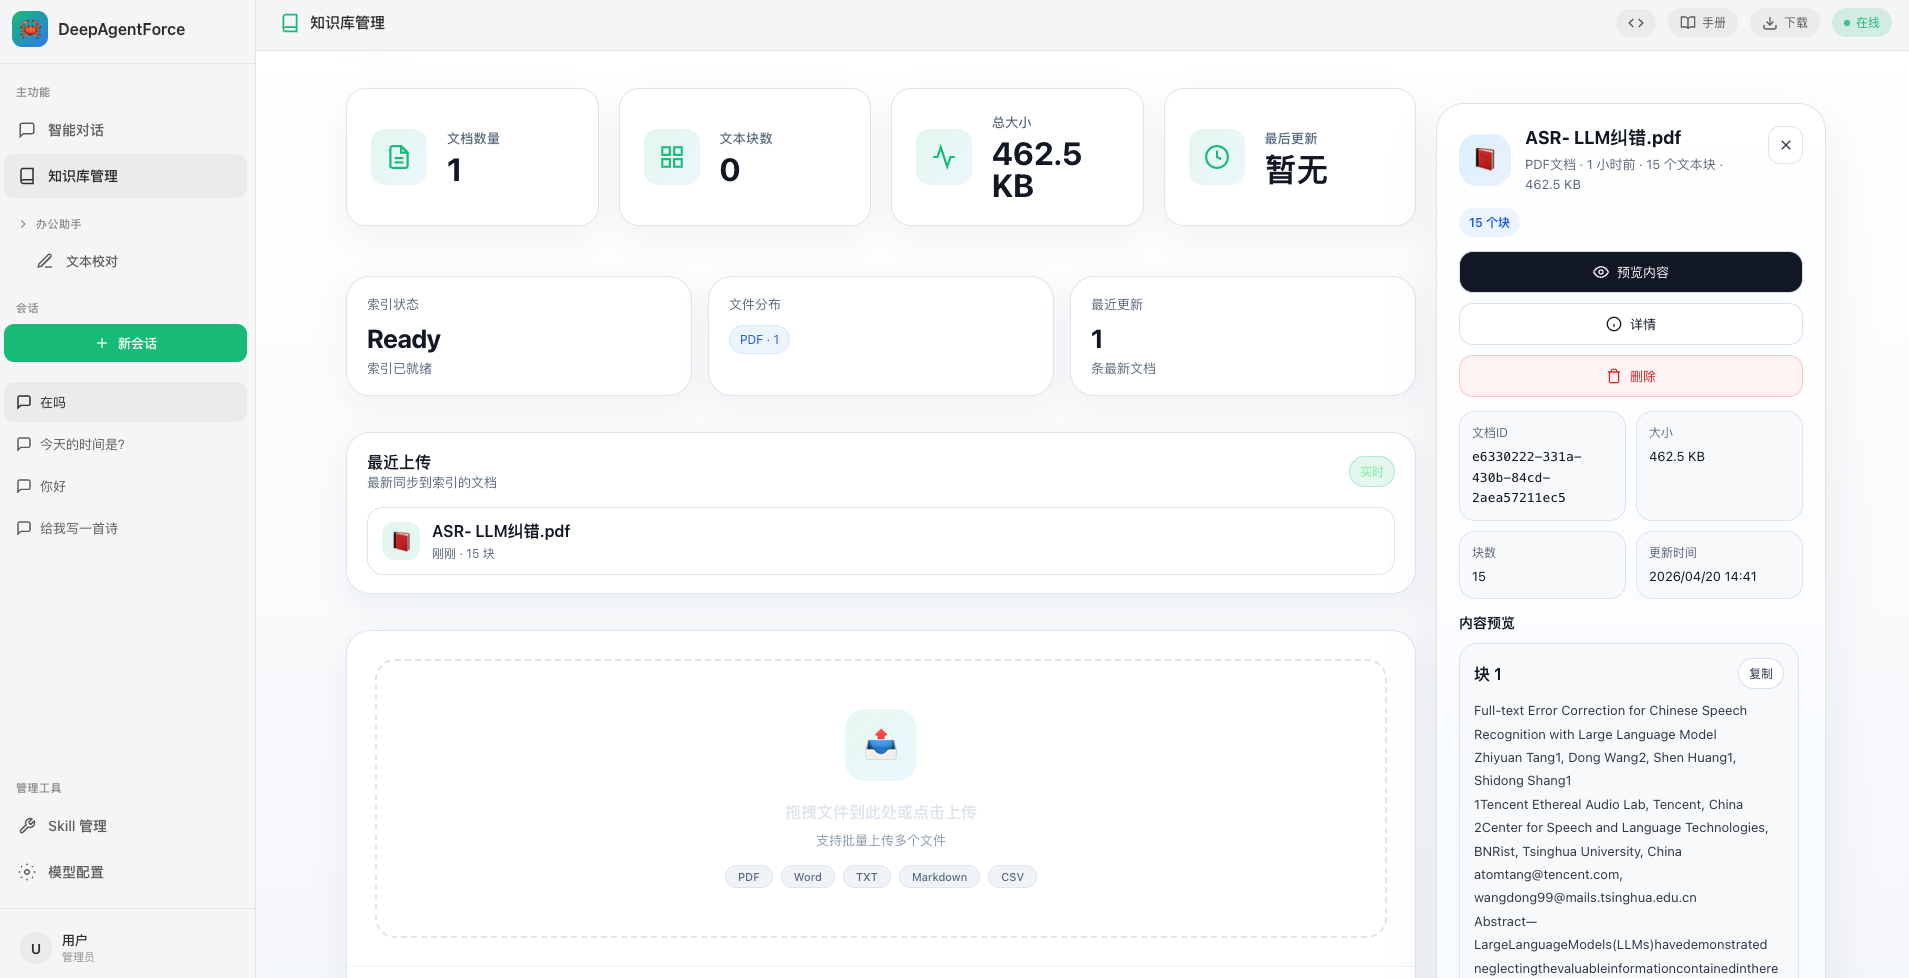
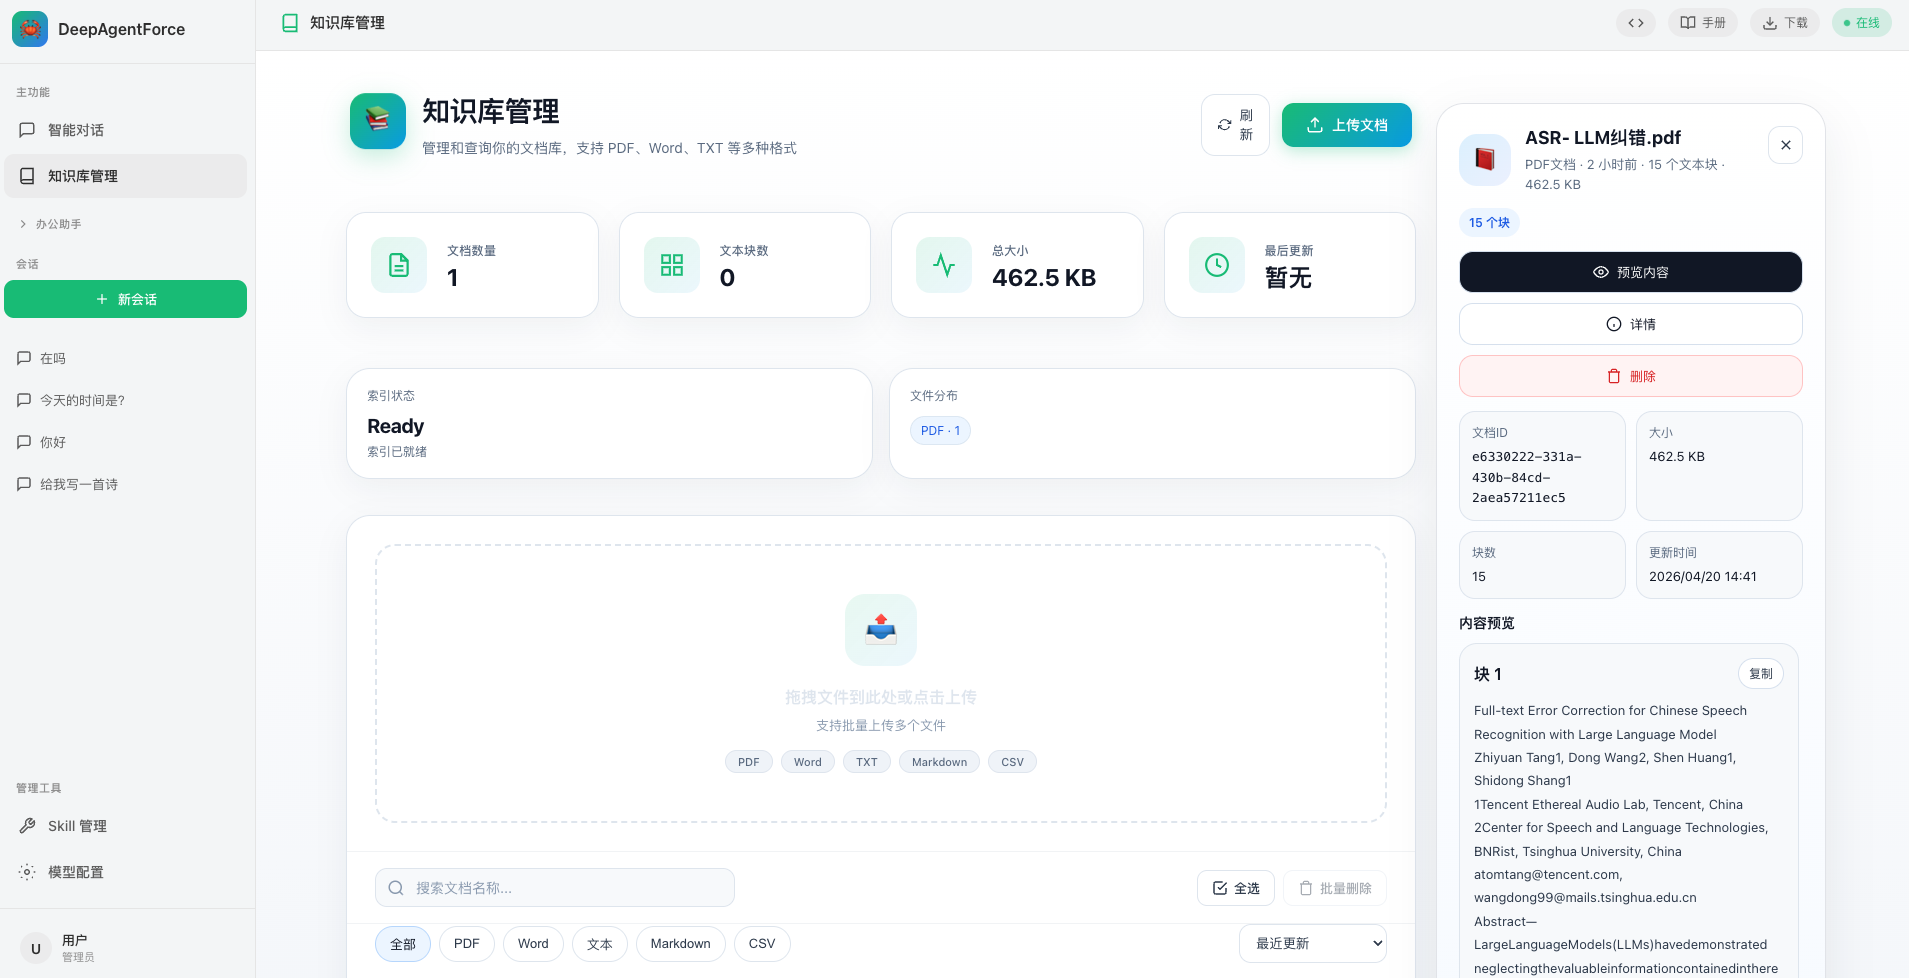
优化 知识库的前端显示

diff --git a/static/index.html b/static/index.html
@@ -2136,7 +2136,7 @@
         }
 
         .stat-label {
-            font-size: 13px;
+            font-size: 12px;
             color: #64748b;
             margin-bottom: 6px;
             font-weight: 500;
@@ -2144,7 +2144,7 @@
         }
 
         .stat-value {
-            font-size: 32px;
+            font-size: 24px;
             font-weight: 700;
             color: #1a1a2e;
             line-height: 1;
@@ -5334,13 +5334,12 @@
 
         .kb-insight-grid {
             display: grid;
-            grid-template-columns: repeat(3, minmax(0, 1fr));
+            grid-template-columns: repeat(2, minmax(0, 1fr));
             gap: 16px;
             margin-bottom: 18px;
         }
 
-        .kb-insight-card,
-        .kb-recent-panel {
+        .kb-insight-card {
             background: rgba(15, 23, 42, 0.72);
             border: 1px solid rgba(148, 163, 184, 0.14);
             border-radius: 24px;
@@ -5355,12 +5354,12 @@
         .kb-insight-label,
         .kb-panel-subtitle {
             color: #94a3b8;
-            font-size: 13px;
+            font-size: 12px;
         }
 
         .kb-insight-value {
             margin-top: 10px;
-            font-size: 26px;
+            font-size: 20px;
             font-weight: 700;
             color: #f8fafc;
             letter-spacing: -0.02em;
@@ -5369,7 +5368,7 @@
         .kb-insight-text {
             margin-top: 6px;
             color: #cbd5e1;
-            font-size: 13px;
+            font-size: 12px;
         }
 
         .kb-type-breakdown {
@@ -5392,86 +5391,6 @@
 
         .kb-type-pill.muted {
             color: #94a3b8;
-        }
-
-        .kb-recent-panel {
-            padding: 18px 20px;
-            margin-bottom: 18px;
-        }
-
-        .kb-panel-head {
-            display: flex;
-            justify-content: space-between;
-            align-items: center;
-            gap: 12px;
-            margin-bottom: 16px;
-        }
-
-        .kb-panel-title {
-            color: #f8fafc;
-            font-size: 16px;
-            font-weight: 650;
-        }
-
-        .kb-panel-badge {
-            padding: 6px 10px;
-            border-radius: 999px;
-            background: rgba(25, 195, 125, 0.12);
-            color: #86efac;
-            font-size: 12px;
-            border: 1px solid rgba(25, 195, 125, 0.24);
-        }
-
-        .recent-docs-list {
-            display: grid;
-            gap: 10px;
-        }
-
-        .recent-doc-item {
-            display: flex;
-            align-items: center;
-            gap: 12px;
-            padding: 12px 14px;
-            border-radius: 16px;
-            background: rgba(2, 6, 23, 0.35);
-            border: 1px solid rgba(148, 163, 184, 0.10);
-        }
-
-        .recent-doc-icon {
-            width: 38px;
-            height: 38px;
-            display: flex;
-            align-items: center;
-            justify-content: center;
-            border-radius: 12px;
-            background: rgba(25, 195, 125, 0.12);
-            font-size: 18px;
-            flex-shrink: 0;
-        }
-
-        .recent-doc-body {
-            min-width: 0;
-            flex: 1;
-        }
-
-        .recent-doc-name {
-            color: #f8fafc;
-            font-weight: 600;
-            white-space: nowrap;
-            overflow: hidden;
-            text-overflow: ellipsis;
-        }
-
-        .recent-doc-meta {
-            color: #94a3b8;
-            font-size: 12px;
-            margin-top: 3px;
-        }
-
-        .recent-doc-empty {
-            padding: 18px 8px;
-            color: #94a3b8;
-            font-size: 13px;
         }
 
         .kb-main-card {
@@ -5759,7 +5678,6 @@
                 flex-wrap: wrap;
             }
 
-            .kb-recent-panel,
             .kb-insight-card {
                 border-radius: 20px;
             }
@@ -6106,7 +6024,6 @@
 
         .kb-main-card,
         .kb-insight-card,
-        .kb-recent-panel,
         .stat-card {
             background: #ffffff;
             border-color: #e2e8f0;
@@ -6123,10 +6040,8 @@
 
         .kb-header-text p,
         .stat-label,
-        .kb-panel-subtitle,
         .kb-insight-label,
         .kb-insight-text,
-        .recent-doc-meta,
         .doc-summary,
         .doc-chip,
         .empty-text {
@@ -6139,7 +6054,6 @@
         .kb-filter-chip,
         .upload-area,
         .document-item,
-        .recent-doc-item,
         .kb-selection-bar {
             background: #fff;
             border-color: #e2e8f0;
@@ -6199,7 +6113,6 @@
             border-color: #dbe4f0;
         }
 
-        .recent-doc-name,
         .doc-name,
         .kb-list-meta strong {
             color: #0f172a;
@@ -6479,22 +6392,6 @@
                                     <span class="kb-type-pill muted">暂无分类</span>
                                 </div>
                             </div>
-                            <div class="kb-insight-card">
-                                <div class="kb-insight-label">最近更新</div>
-                                <div class="kb-insight-value" id="recentDocsCount">0</div>
-                                <div class="kb-insight-text">条最新文档</div>
-                            </div>
-                        </div>
-
-                        <div class="kb-recent-panel">
-                            <div class="kb-panel-head">
-                                <div>
-                                    <div class="kb-panel-title">最近上传</div>
-                                    <div class="kb-panel-subtitle">最新同步到索引的文档</div>
-                                </div>
-                                <div class="kb-panel-badge">实时</div>
-                            </div>
-                            <div class="recent-docs-list" id="recentDocsList"></div>
                         </div>
 
                         <!-- 主卡片 -->

diff --git a/static/knowledge.js b/static/knowledge.js
@@ -322,8 +322,6 @@ async function loadKnowledgeBaseStats() {
             const kbHealthText = document.getElementById('kbHealthText');
             const kbHealthValue = document.getElementById('kbHealthValue');
             const kbTypeBreakdown = document.getElementById('kbTypeBreakdown');
-            const recentDocsCount = document.getElementById('recentDocsCount');
-            const recentDocsList = document.getElementById('recentDocsList');
 
             if (statDocs) statDocs.textContent = data.document_count;
             if (statChunks) statChunks.textContent = data.chunks_count || 0;
@@ -343,23 +341,6 @@ async function loadKnowledgeBaseStats() {
                     .map(([key, value]) => `<span class="kb-type-pill">${key} · ${value}</span>`)
                     .join('');
                 kbTypeBreakdown.innerHTML = entries || '<span class="kb-type-pill muted">暂无分类</span>';
-            }
-            if (recentDocsCount) {
-                recentDocsCount.textContent = Array.isArray(data.recent_documents) ? data.recent_documents.length : 0;
-            }
-            if (recentDocsList) {
-                const recent = Array.isArray(data.recent_documents) ? data.recent_documents : [];
-                recentDocsList.innerHTML = recent.length
-                    ? recent.map(doc => `
-                        <div class="recent-doc-item">
-                            <div class="recent-doc-icon">${getFileIcon(doc.name || '')}</div>
-                            <div class="recent-doc-body">
-                                <div class="recent-doc-name">${escapeHtml(doc.name || '未命名文档')}</div>
-                                <div class="recent-doc-meta">${formatRelativeTime(doc.uploaded_at)} · ${doc.chunks || 0} 块</div>
-                            </div>
-                        </div>
-                    `).join('')
-                    : '<div class="recent-doc-empty">暂无最近更新</div>';
             }
         }
     } catch (error) {
